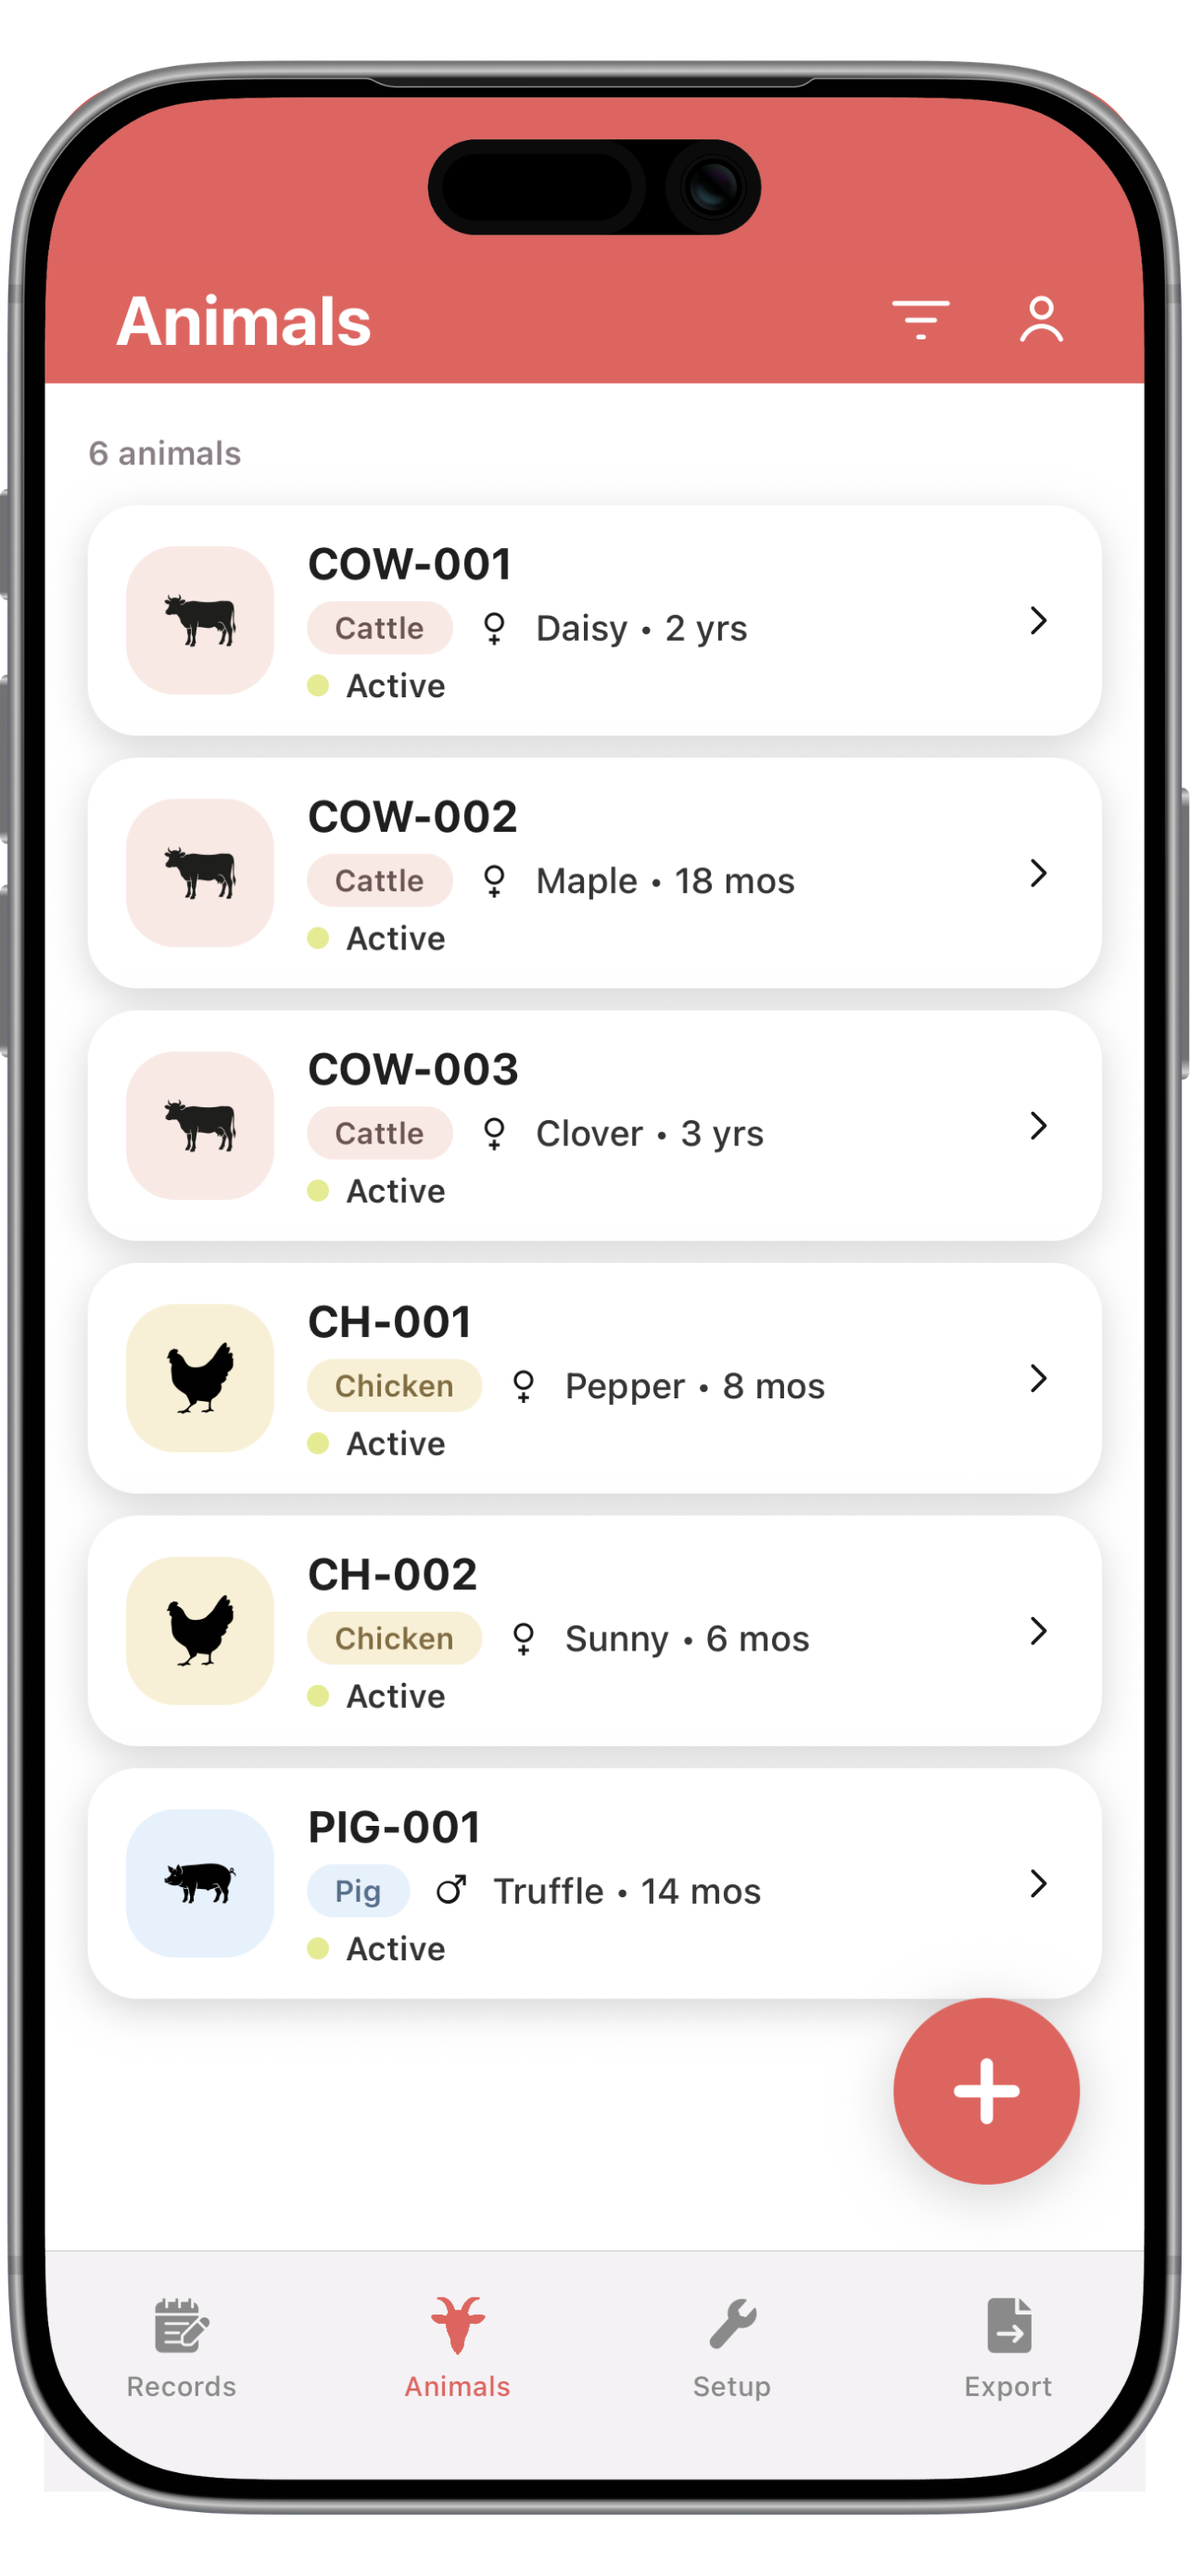
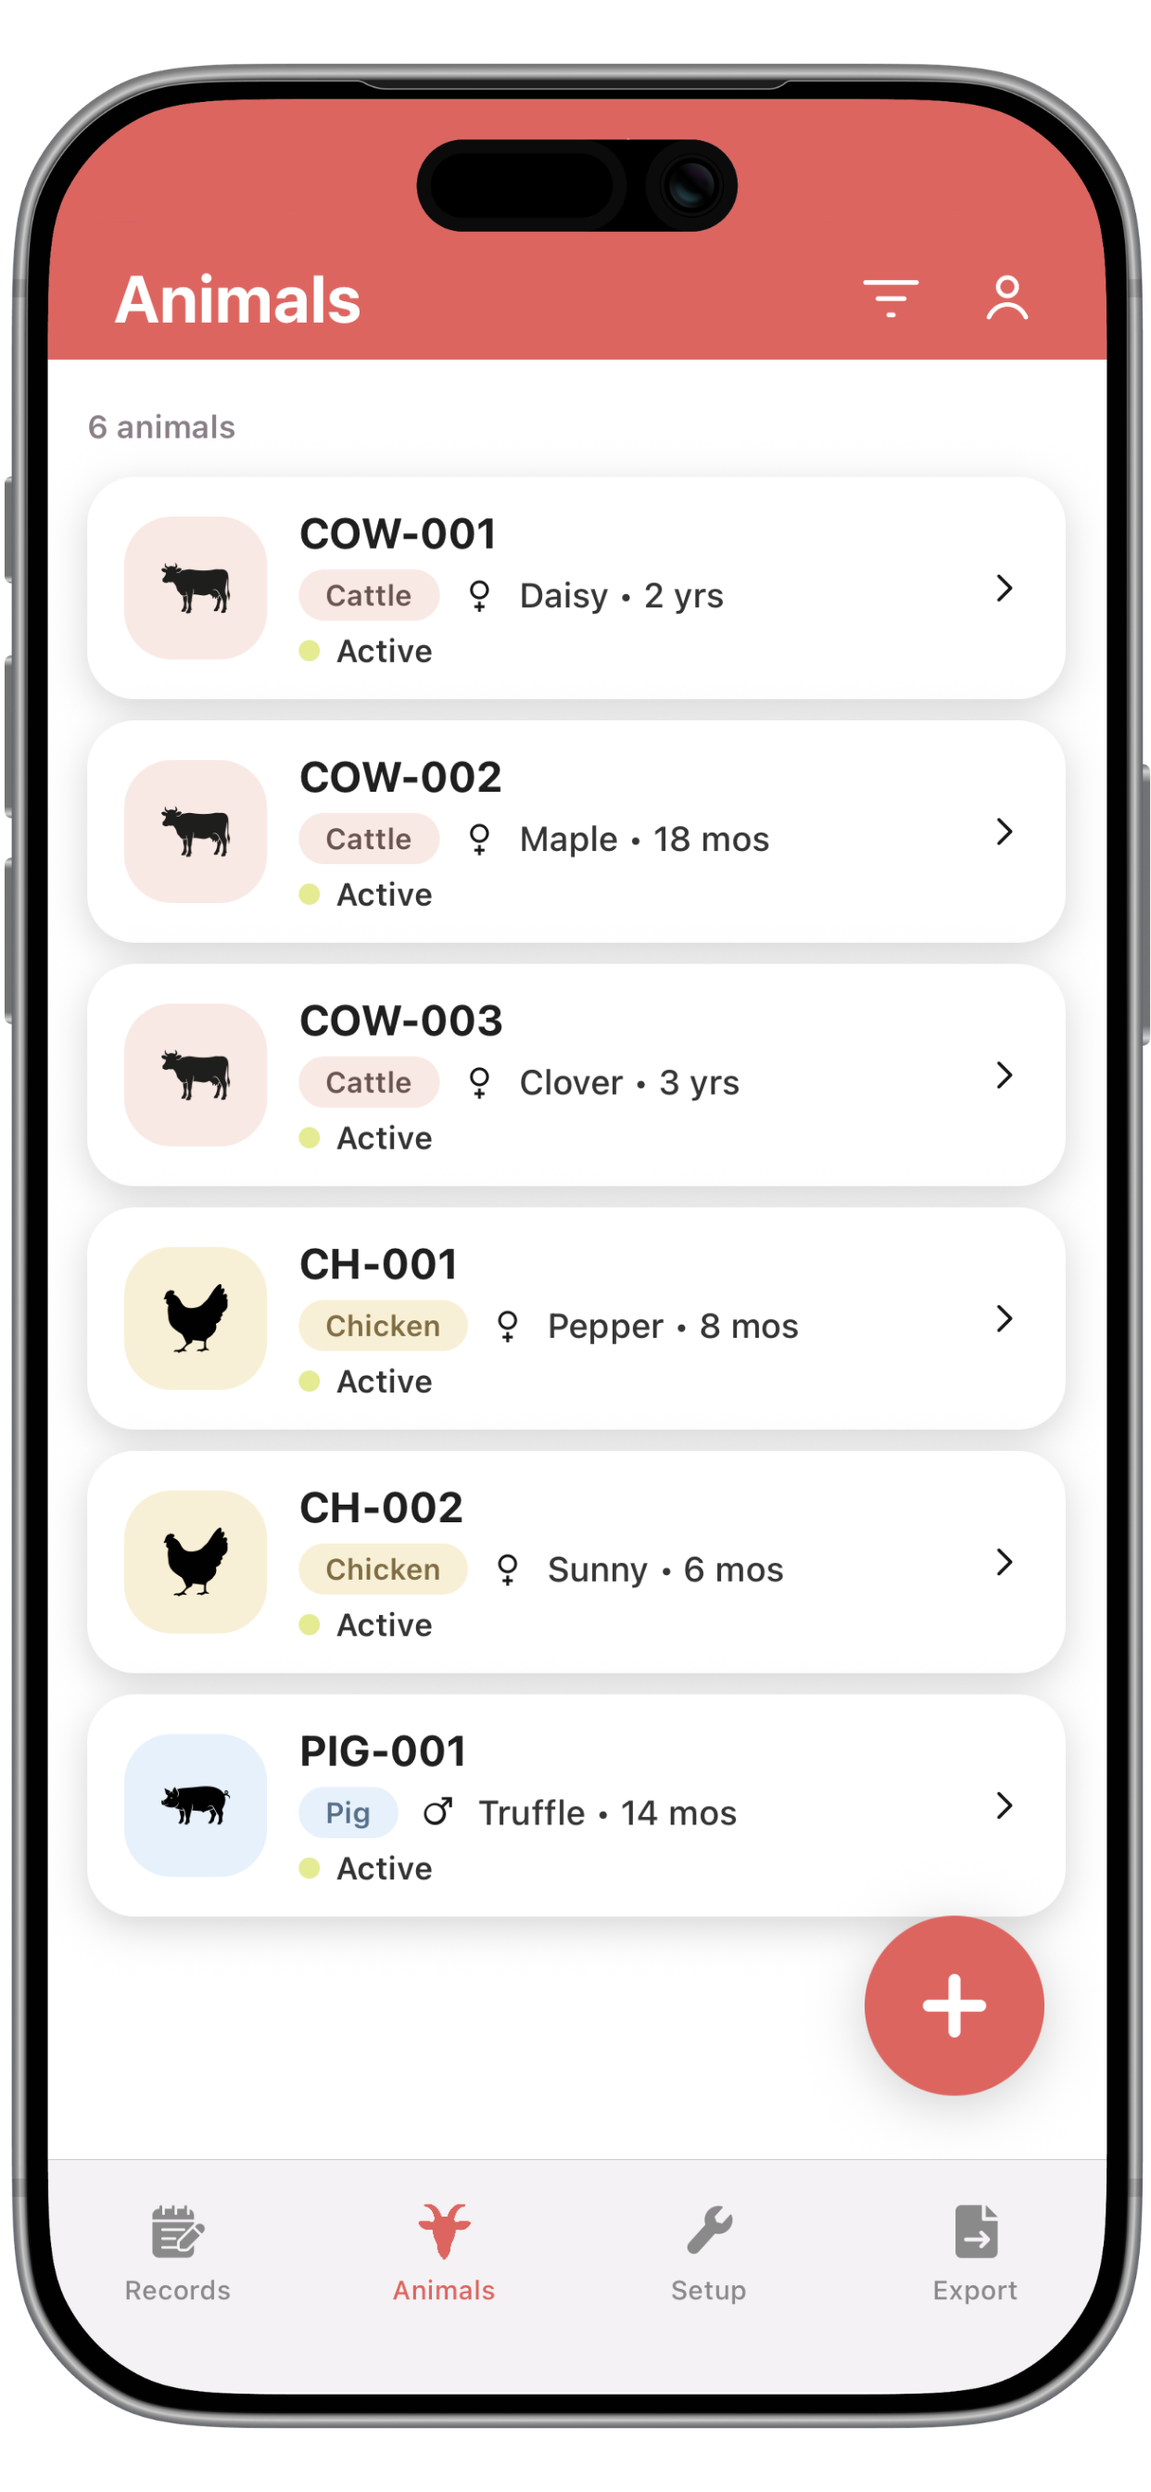
Update website hero mockups and screenshots

diff --git a/docs/styles.css b/docs/styles.css
@@ -322,15 +322,12 @@ h2,
 }
 
 .hero-phone-stack {
-  display: grid;
-  grid-template-columns: 1fr;
-  justify-items: center;
-  gap: 18px;
-  width: min(320px, 100%);
-  min-height: 0;
+  position: relative;
+  width: min(430px, 100%);
+  min-height: 520px;
 }
 
-.hero-shot,
+.hero-phone-live,
 .feature-shot {
   width: min(300px, 100%);
   position: relative;
@@ -340,39 +337,41 @@ h2,
   box-shadow: none;
 }
 
-.hero-shot {
-  width: 100%;
+.hero-phone-live {
+  position: absolute;
+  width: min(250px, 100%);
+  transform-origin: 50% 50%;
 }
 
-.hero-shot-front {
-  position: relative;
-  left: 0;
-  z-index: auto;
-  transform: none;
+.hero-phone-back {
+  inset: 30px auto auto 20px;
+  z-index: 1;
+  transform: rotate(-15deg);
 }
 
-.hero-shot-back {
-  position: relative;
-  width: 100%;
-  inset: auto;
-  z-index: auto;
-  transform: none;
-  opacity: 1;
+.hero-phone-front {
+  inset: 6px 12px auto auto;
+  z-index: 2;
+  transform: rotate(15deg);
 }
 
-.hero-shot img {
+.hero-phone-live img {
   width: 100%;
   height: auto;
   display: block;
   border-radius: 0;
+  box-shadow: none;
+  border: 0;
 }
 
-.phone-shot {
+.feature-screen-image {
   width: 100%;
   height: auto;
   object-fit: cover;
   border-radius: 0;
   display: block;
+  box-shadow: none;
+  border: 0;
 }
 
 .feature-story-list,
@@ -422,15 +421,11 @@ h2,
   grid-template-columns: minmax(320px, 1fr) minmax(240px, 320px);
 }
 
-.feature-story-phone {
+.feature-story-screen {
   width: min(300px, 100%);
   margin: 0;
   transform: none;
   box-shadow: none;
-}
-
-.feature-story-phone .phone-shot {
-  border-radius: 0;
 }
 
 .feature-story:first-child {
@@ -684,23 +679,21 @@ h2,
   }
 
   .hero-phone-stack {
-    width: min(320px, 100%);
-    min-height: 500px;
-    margin-left: 0;
+    width: min(360px, 100%);
+    min-height: 420px;
+    margin: 0 auto;
   }
 
   .hero-phone-live {
-    width: min(248px, 100%);
-    transform: none;
-  }
-
-  .hero-phone-front {
-    left: 108px;
+    width: min(210px, 62vw);
   }
 
   .hero-phone-back {
-    width: min(208px, 84%);
-    inset: 30px auto auto 12px;
+    inset: 30px auto auto 14px;
+  }
+
+  .hero-phone-front {
+    inset: 0 10px auto auto;
   }
 
   .feature-story {
@@ -708,7 +701,7 @@ h2,
     max-width: 420px;
     gap: 16px;
     grid-template-columns: minmax(148px, 212px) minmax(156px, 188px);
-    grid-template-areas: "phone copy";
+    grid-template-areas: "media copy";
     justify-content: center;
     justify-items: stretch;
     align-items: center;
@@ -720,7 +713,7 @@ h2,
     max-width: 420px;
     gap: 16px;
     grid-template-columns: minmax(156px, 188px) minmax(148px, 212px);
-    grid-template-areas: "copy phone";
+    grid-template-areas: "copy media";
     justify-content: center;
     justify-items: stretch;
     align-items: center;
@@ -745,8 +738,8 @@ h2,
     justify-self: end;
   }
 
-  .feature-story-phone {
-    grid-area: phone;
+  .feature-story-screen {
+    grid-area: media;
     width: min(212px, 60vw);
     justify-self: center;
     align-self: center;
@@ -823,29 +816,21 @@ h2,
     font-size: clamp(2.1rem, 12vw, 3.4rem);
   }
 
-  .hero-phone,
-  .phone-placeholder {
-    width: min(280px, 100%);
-    padding: 5px;
-    border-radius: 30px;
-  }
-
   .hero-phone-stack {
-    width: min(276px, 100%);
-    min-height: 420px;
+    width: min(290px, 100%);
+    min-height: 330px;
   }
 
   .hero-phone-live {
-    width: min(206px, 100%);
-  }
-
-  .hero-phone-front {
-    left: 82px;
+    width: min(160px, 48vw);
   }
 
   .hero-phone-back {
-    width: min(170px, 82%);
-    inset: 24px auto auto 4px;
+    inset: 28px auto auto 8px;
+  }
+
+  .hero-phone-front {
+    inset: 0 2px auto auto;
   }
 
   .feature-story {
@@ -886,17 +871,10 @@ h2,
     line-height: 1.5;
   }
 
-  .feature-story-phone {
+  .feature-story-screen {
     width: min(164px, 46vw);
     margin-top: 0;
   }
-
-  .hero-phone::after,
-  .phone-placeholder::after {
-    top: 92px;
-    height: 58px;
-  }
-
   .placeholder-row {
     flex-direction: column;
   }

diff --git a/docs/index.html b/docs/index.html
@@ -45,11 +45,11 @@
         </div>
 
         <div class="hero-visual hero-phone-stack">
-          <figure class="hero-shot hero-shot-back">
-            <img src="./images/phone-mockups/animals.png" alt="Animals page in LivestockBook" loading="eager" />
+          <figure class="hero-phone-live hero-phone-back">
+            <img src="./images/phone-mockups/records.png" alt="Records page in LivestockBook" loading="eager" />
           </figure>
-          <figure class="hero-shot hero-shot-front">
-            <img src="./images/phone-mockups/view_asnimal.png" alt="View Animal page in LivestockBook" loading="eager" />
+          <figure class="hero-phone-live hero-phone-front">
+            <img src="./images/phone-mockups/animals.png" alt="Animals page in LivestockBook" loading="eager" />
           </figure>
         </div>
       </div>
@@ -62,8 +62,8 @@
     <div class="page-shell">
       <section class="feature-story-list" id="features">
         <article class="feature-story">
-          <figure class="feature-shot feature-story-phone">
-            <img class="phone-shot" src="./images/phone-mockups/add_record.png" alt="Add Record screen in LivestockBook" loading="lazy" />
+          <figure class="feature-shot feature-story-screen">
+            <img class="feature-screen-image" src="./images/screenshots/add-record-current.png" alt="Add Record screen in LivestockBook" loading="lazy" />
           </figure>
           <div class="feature-card feature-story-copy">
             <p class="eyebrow">Add Record</p>
@@ -78,14 +78,14 @@
             <h2>Keep animal records organised</h2>
             <p>See your livestock in one clear register so details stay easy to find and maintain.</p>
           </div>
-          <figure class="feature-shot feature-story-phone">
-            <img class="phone-shot" src="./images/phone-mockups/animals.png" alt="Animals page in LivestockBook" loading="lazy" />
+          <figure class="feature-shot feature-story-screen">
+            <img class="feature-screen-image" src="./images/screenshots/animals-current.png" alt="Animals page in LivestockBook" loading="lazy" />
           </figure>
         </article>
 
         <article class="feature-story">
-          <figure class="feature-shot feature-story-phone">
-            <img class="phone-shot" src="./images/phone-mockups/setup.png" alt="Setup screen in LivestockBook" loading="lazy" />
+          <figure class="feature-shot feature-story-screen">
+            <img class="feature-screen-image" src="./images/screenshots/setup.png" alt="Setup screen in LivestockBook" loading="lazy" />
           </figure>
           <div class="feature-card feature-story-copy">
             <p class="eyebrow">Setup</p>
@@ -100,8 +100,8 @@
             <h2>Export only what you need</h2>
             <p>Turn the same records into clean exports when you need to share or keep compliant paperwork ready.</p>
           </div>
-          <figure class="feature-shot feature-story-phone">
-            <img class="phone-shot" src="./images/phone-mockups/export.png" alt="Export screen in LivestockBook" loading="lazy" />
+          <figure class="feature-shot feature-story-screen">
+            <img class="feature-screen-image" src="./images/screenshots/export-current.png" alt="Export screen in LivestockBook" loading="lazy" />
           </figure>
         </article>
       </section>
